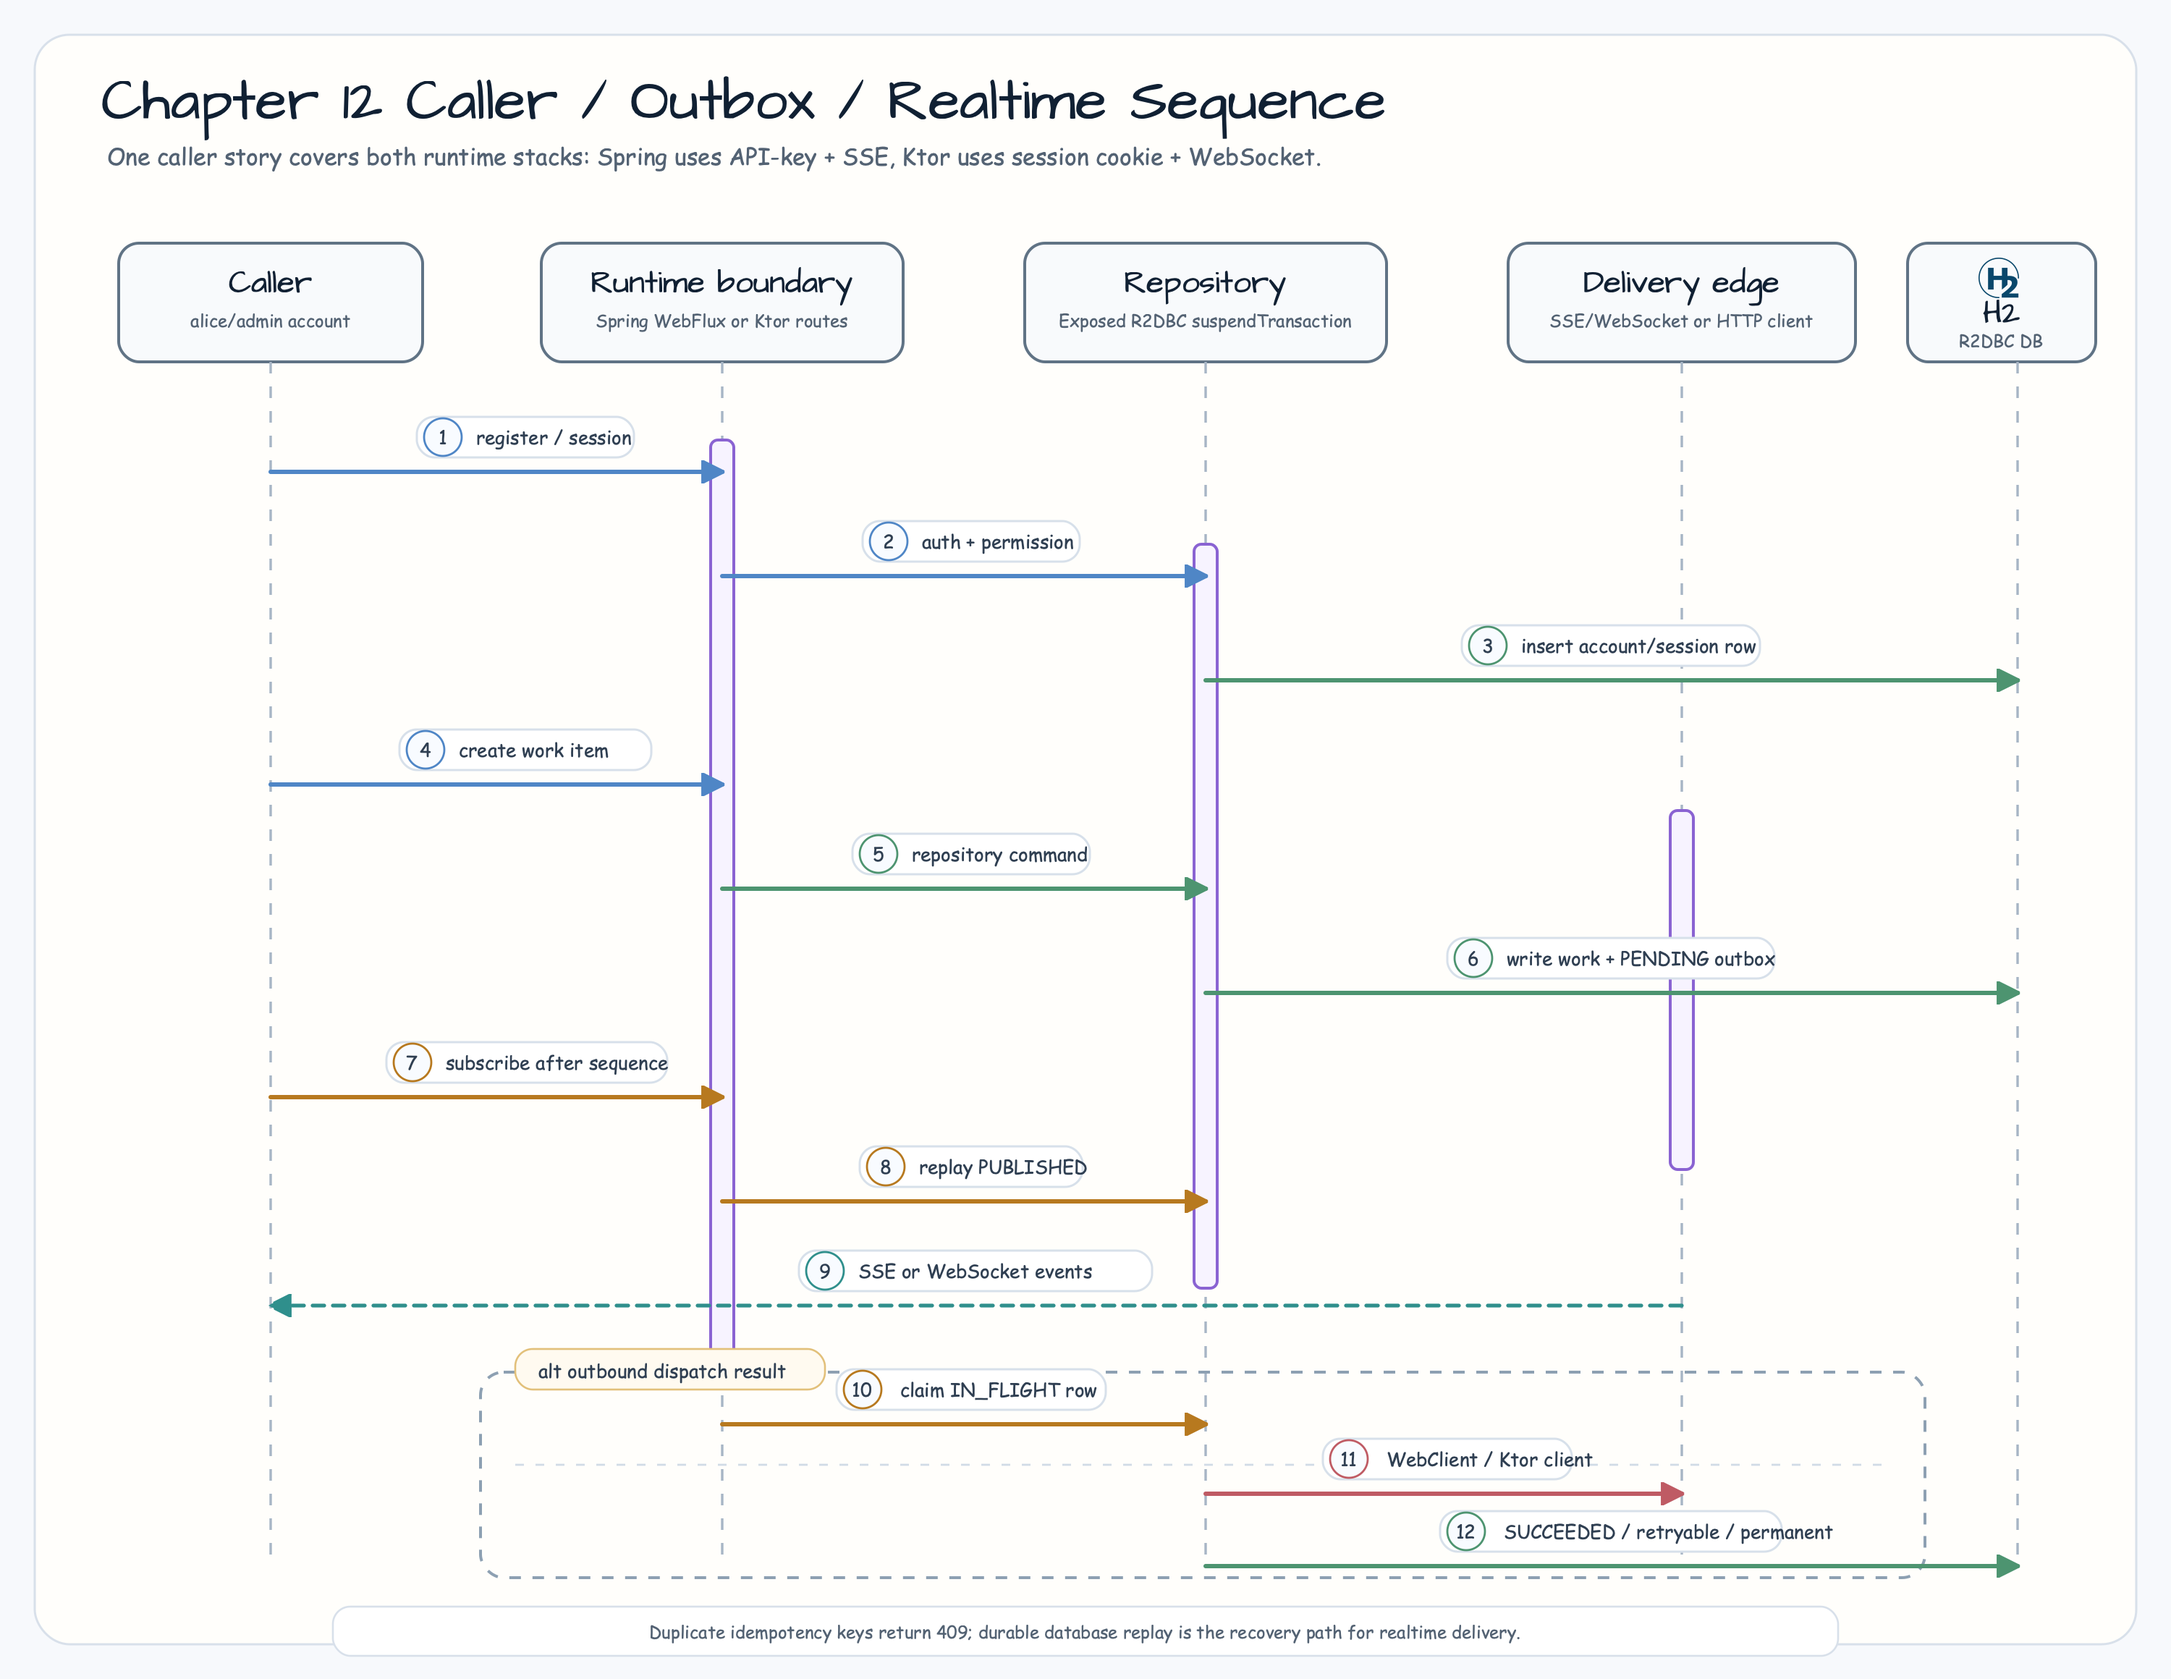
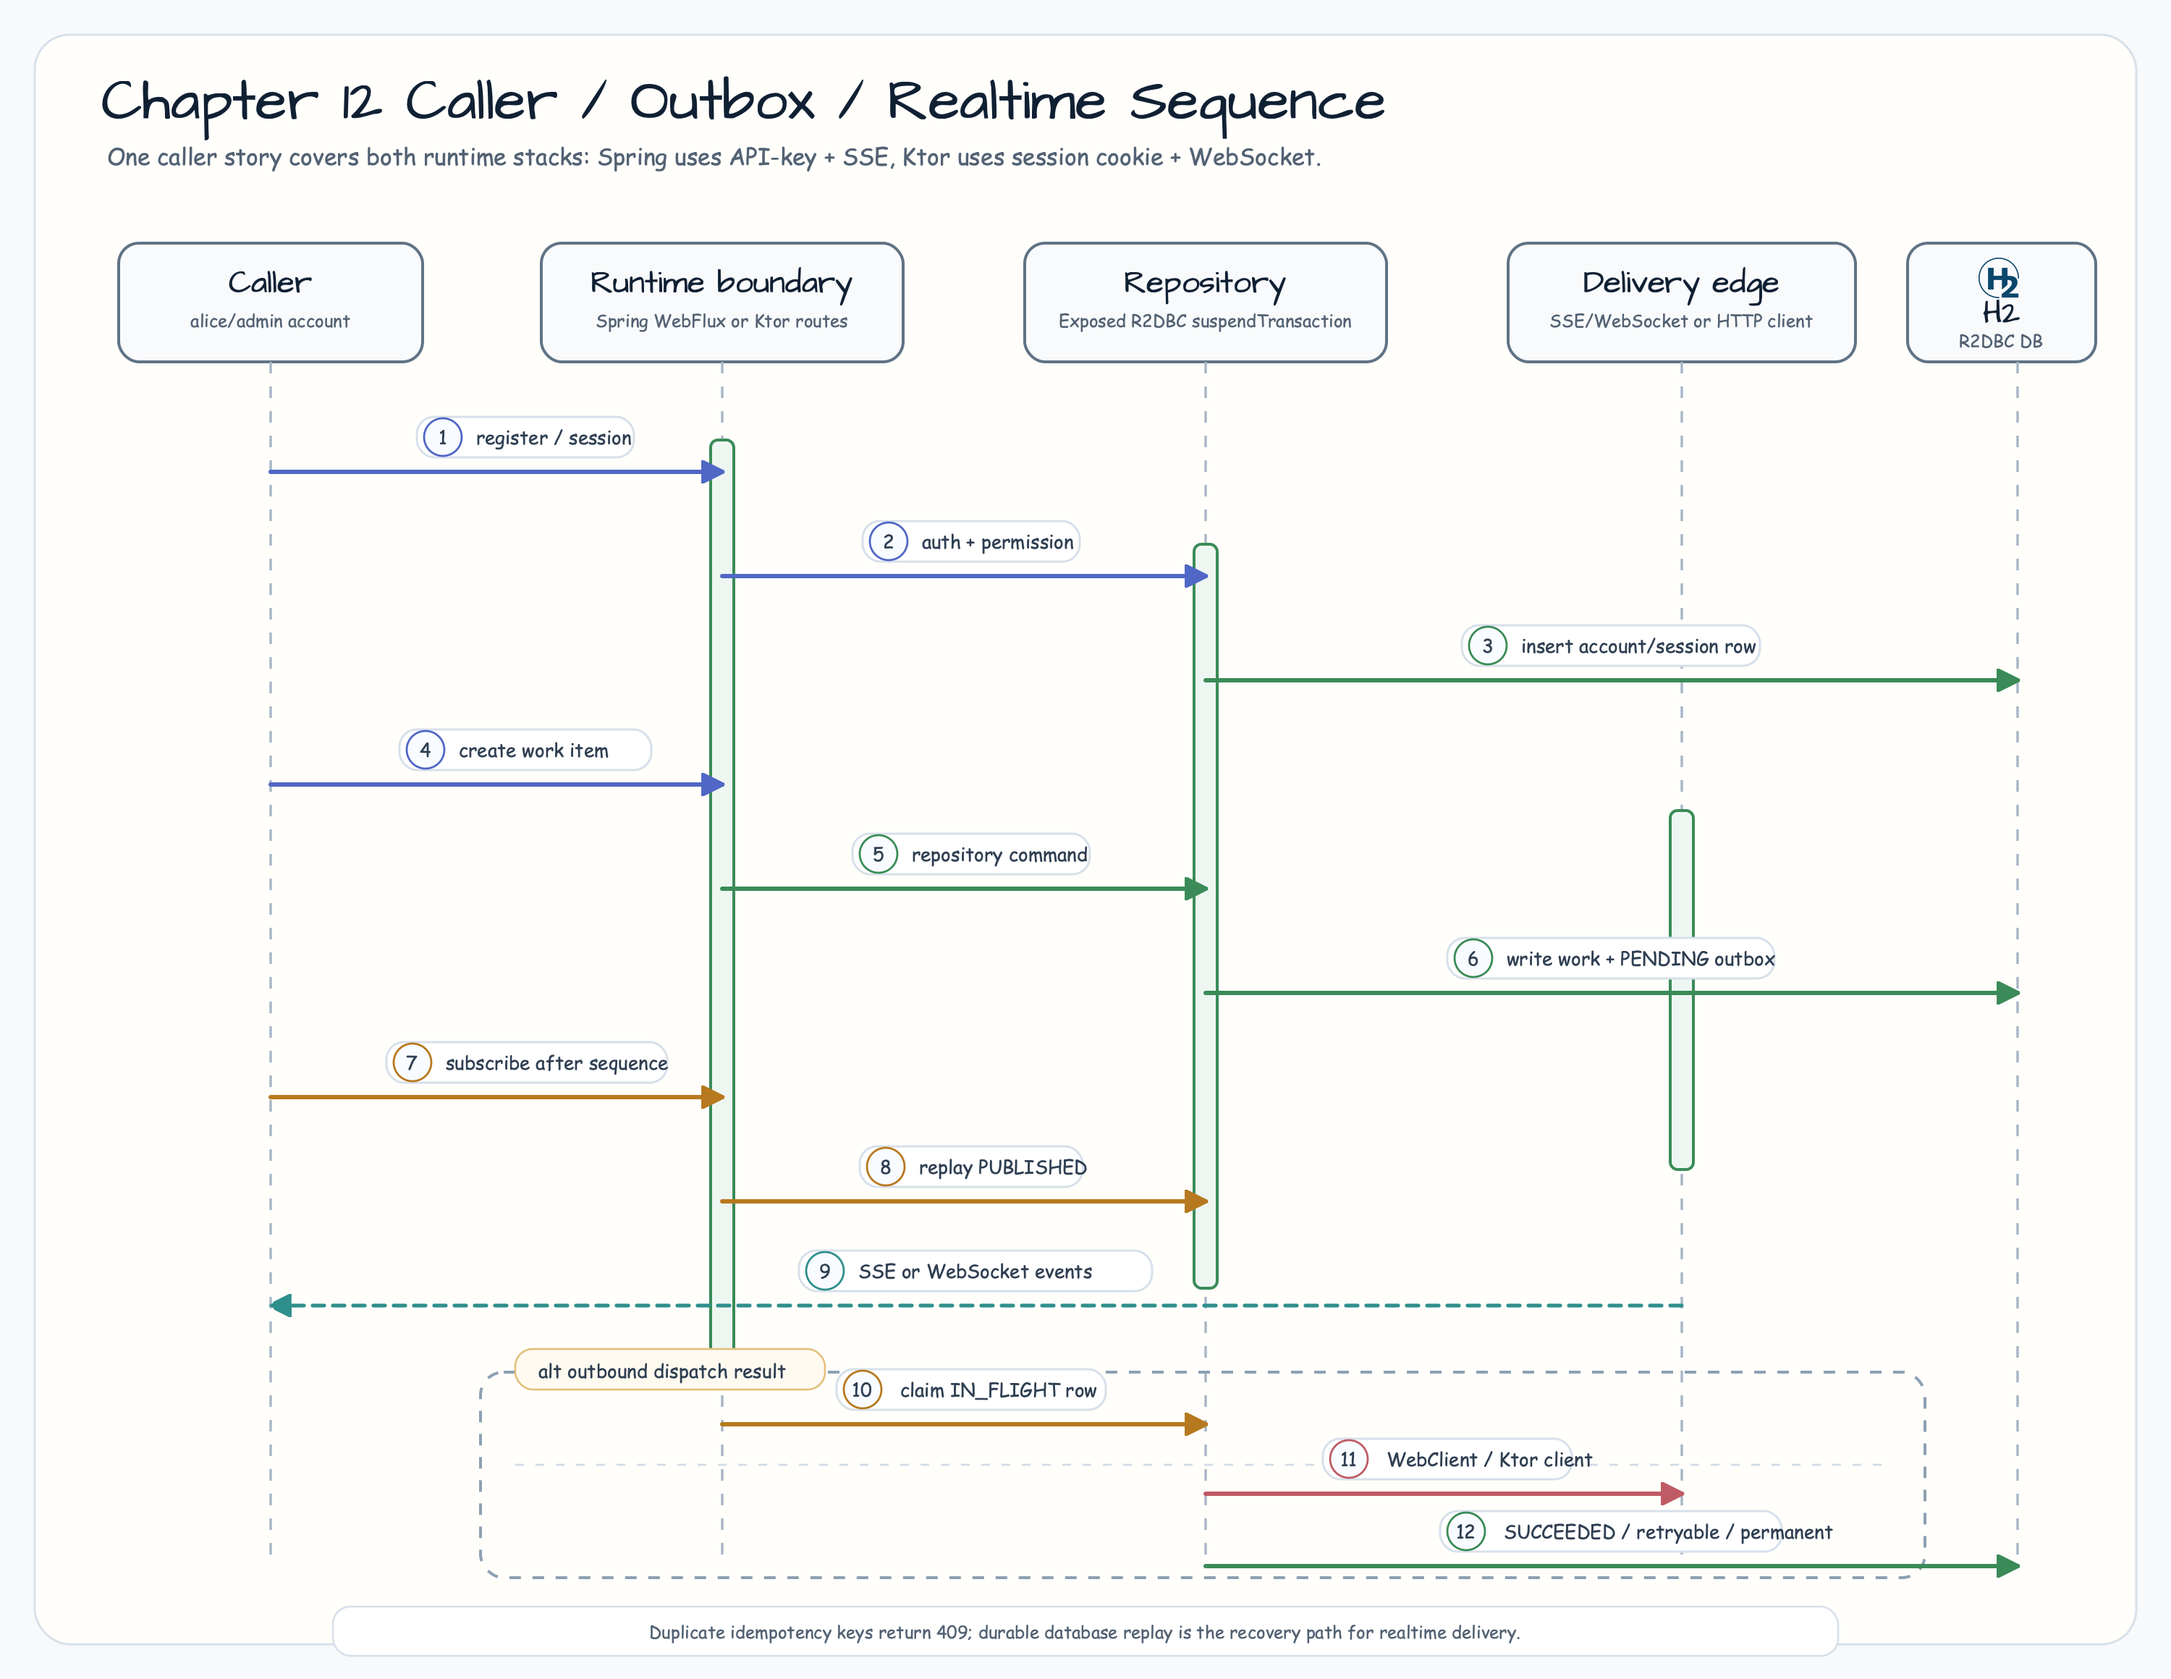
Align Chapter 12 sequence palette
Bring the caller sequence palette back under the diagram checklist by matching its blue, green, and activation colors to the muted architecture map family while preserving semantic branch colors.

Constraint: bluetape4k-diagram treats sequence palette parity as a hard rendered-PNG gate.

Rejected: Rely on helper audit pass alone | The palette mismatch was visible in the rendered contact sheet.

Confidence: high

Scope-risk: narrow

Directive: Review sequence palette in the rendered PNG and contact sheet, not only in SVG constants or helper output.

Tested: XML parse; CairoSVG render -s 2; full-size sequence PNG inspection; contact sheet inspection; sequence style/connector/geometry/endpoint/mixed-corner audits; architecture connector/geometry/endpoint/mixed-corner audits; duplicate icon audit; git diff --check.

Not-tested: Gradle tests; diagram palette-only change.

diff --git a/docs/review/2026-07-05-issue-114-chapter12-parity-review.md b/docs/review/2026-07-05-issue-114-chapter12-parity-review.md
@@ -31,6 +31,7 @@
 | Architecture audits | `diagram-connector-audit.py` PASS markers=2 connectors=10 cards=12 intrusions=0 crossings=0; `diagram-geometry-audit.py` geometry_failures=0; `diagram-endpoint-audit.py` PASS; `diagram-mixed-corner-audit.py` PASS paths=10 q_bends=0 failures=0. |
 | Sequence audits | `diagram-sequence-style-audit.py` PASS; `diagram-connector-audit.py` PASS markers=5 connectors=12 cards=5 intrusions=0 crossings=0; `diagram-geometry-audit.py` geometry_failures=0; `diagram-endpoint-audit.py` PASS; `diagram-mixed-corner-audit.py` PASS paths=12 q_bends=0 failures=0. |
 | Sequence references | Opened full-size best-practices reference `/Users/debop/work/bluetape4k/bluetape4k-wiki/docs/diagrams/best-practices/assets/sequence-workflow-sample.png` and repo-local reference `/Users/debop/work/bluetape4k/exposed-r2dbc-workshop/.worktrees/feat-issue-114-chapter12-parity/docs/images/readme-diagrams/11-high-performance-sequence-03.png` before validating the sequence family. |
+| Sequence palette parity | Recolored sequence blue/green and activation bars to the same muted `#5067c5` / `#3a8b57` family used by the architecture map, then re-rendered the PNG and inspected the full-size asset plus contact sheet for palette drift. |
 | Icon provenance | H2 cards embed `database/h2.svg` from the bluetape4k icon catalog via `data-bluetape4k-icon="database/h2.svg"`. |
 | Contact sheet | `/tmp/exposed-r2dbc-diagram-qa/issue-114-contact-sheet.png` was inspected for architecture/sequence family drift after each touched PNG passed full-size inspection. |
 
